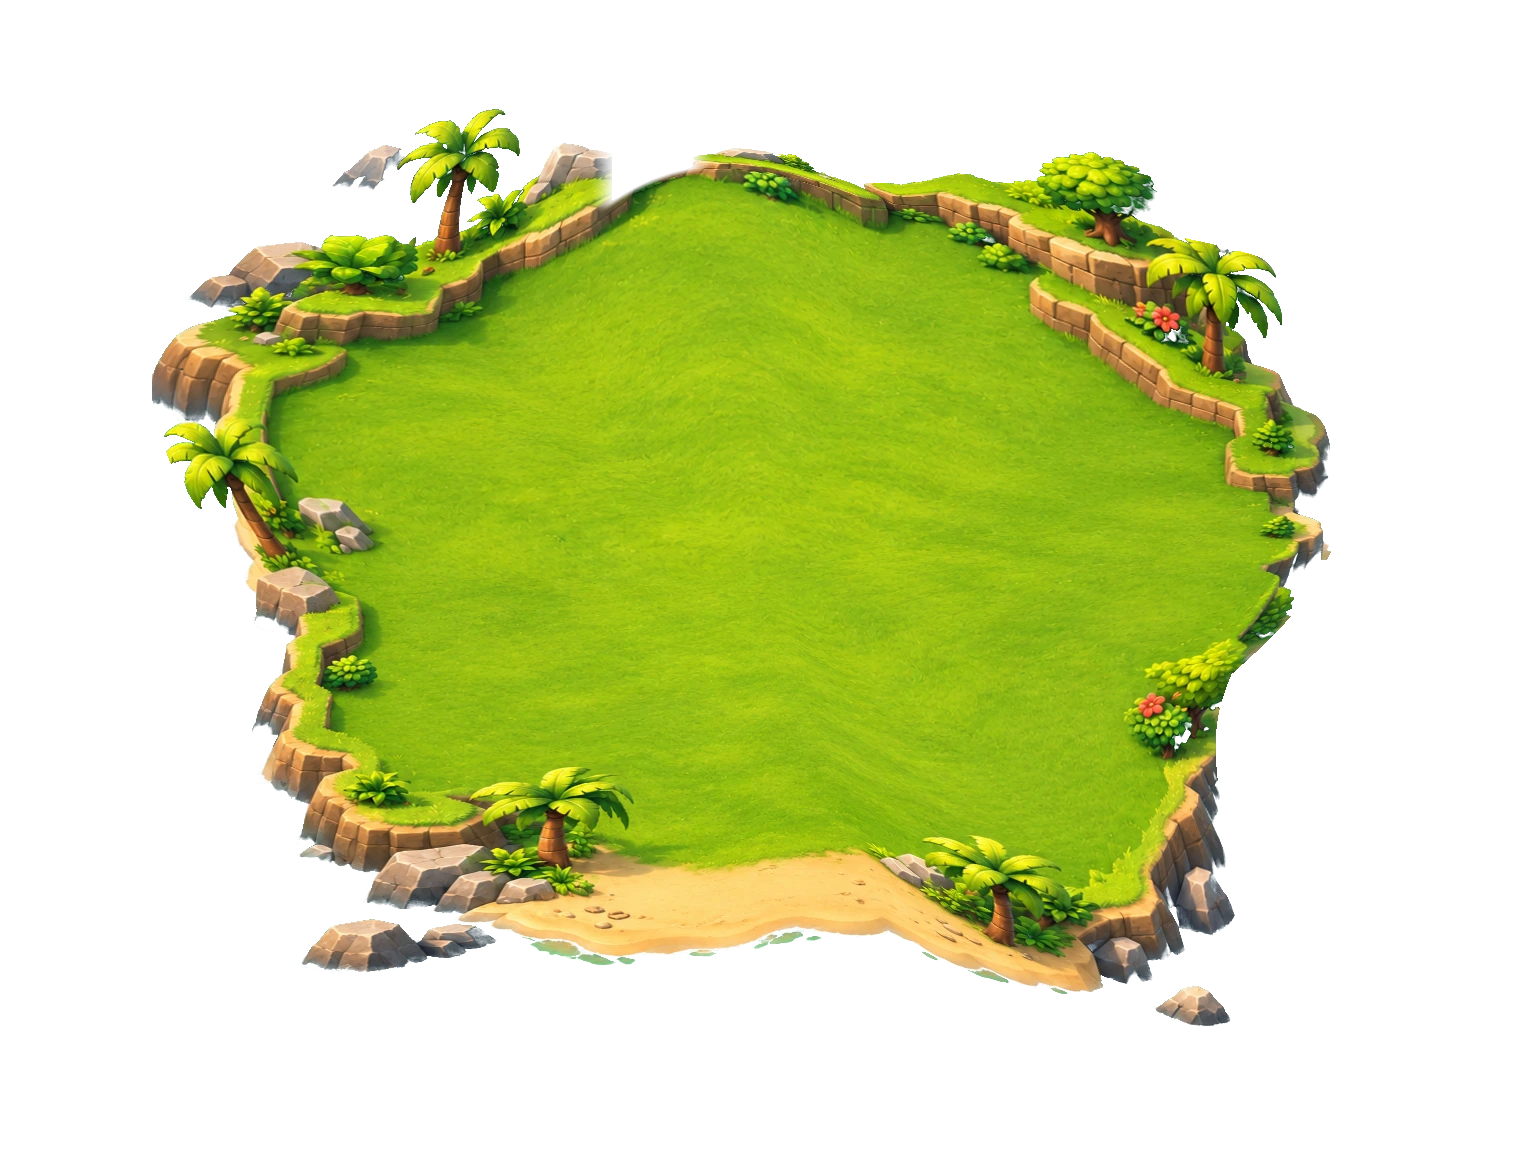
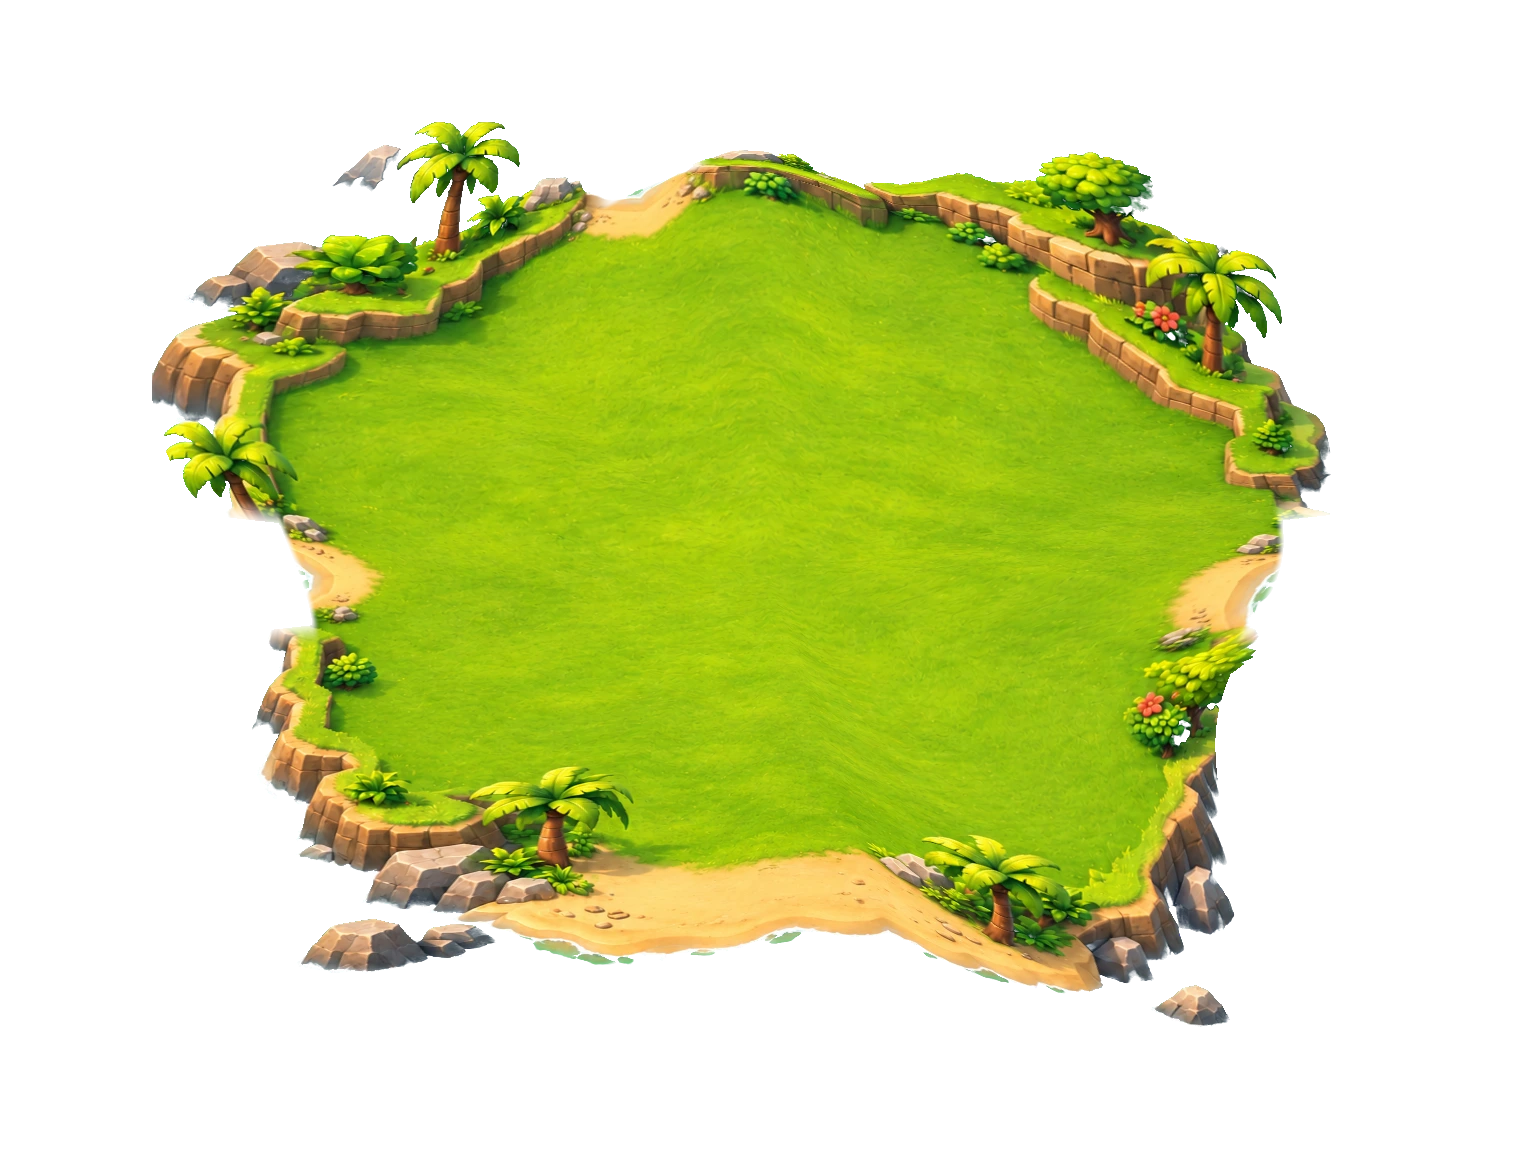
Lay out the mockup cottages, southern bell and four sandy approaches

diff --git a/frontend/src/island/world.js b/frontend/src/island/world.js
@@ -13,7 +13,8 @@ import {makeFootprint, makeWallLanes} from './move-preview.js';
 import {makeSelectionBracket} from './selection-bracket.js';
 import {makeDefenseRange} from './defense-range.js';
 import {makeBuildingFeedback, makeWallFeedback} from './wall-feedback.js';
-import {FOOTPRINTS, KEEP_OUT, footprintOf} from './placement.js';
+import {FOOTPRINTS, KEEP_OUT, footprintOf, overlaps, positionsOf} from './placement.js';
+import {HOME_COTTAGES, SOUTH_BELL} from './home-plan.js';
 import {isOpen, spotWave, waveOf} from '../campaign/index.js';
 import {LOCK_WAVES} from '../art/campaign.js';
 import {SLOT_KINDS} from './td-rules.js';
@@ -282,6 +283,27 @@ export function decorateIsland(place, ctx = {}) {
     bell.userData.portraitSize = 2.03;
     staticArt.track(bell, 'island-bell');
   }
+  const cottageArt = layout.zones === islandZones ? drawn('island-house') : null;
+  const cottages = cottageArt ? HOME_COTTAGES.map(site => {
+    const mesh = sprite(root, cottageArt, site.x, site.z, site.id);
+    mesh.userData.portraitSize = 1.83;
+    mesh.raycast = () => {};
+    staticArt.track(mesh, 'island-house');
+    return {site, mesh};
+  }) : [];
+  let bellPosition = BELL;
+  function updateScenery(spots) {
+    if (!bell || layout.zones !== islandZones) return;
+    const occupied = Object.entries(positionsOf(spots)).map(([id, point]) => {
+      const size = footprintOf(id);
+      return {...point, w: size, d: size};
+    });
+    const free = footprint => !occupied.some(plot => overlaps(plot, footprint));
+    // Old saves may already use this piece of ground. Keep their accepted placement and a usable bell.
+    bellPosition = free({...SOUTH_BELL, w: 2, d: 2}) ? SOUTH_BELL : BELL;
+    moveSprite(bell, bellPosition.x, bellPosition.z);
+    for (const {site, mesh} of cottages) mesh.visible = free(site);
+  }
   // The campaign's buildings (home island only): one mesh per frame they can show, the right one visible.
   const campaignMeshes = new Map(); // building id -> {frame name -> mesh}
   const campaignTextures = new Map();
@@ -353,7 +375,9 @@ export function decorateIsland(place, ctx = {}) {
       installed.push(collider);
     }
     place.colliders.splice(0, place.colliders.length, ...baseColliders,
-      ...fixtures.map(({id, x, z, w: width, d: depth}) => ({x, z, width, depth, islandBuilding: true, spotId: id})), ...installed);
+      ...fixtures.map(({id, x, z, w: width, d: depth}) => ({x, z, width, depth, islandBuilding: true, spotId: id})),
+      ...cottages.filter(({mesh}) => mesh.visible).map(({site: {id, x, z, w: width, d: depth}}) => ({x, z, width, depth, islandBuilding: true, spotId: id})),
+      ...installed);
     refreshTowerColliders();
   }
   let preview = null;
@@ -440,7 +464,7 @@ export function decorateIsland(place, ctx = {}) {
     const places = hidden || !crew ? [] : crewPlaces(spots.map(item => {
       const spot = SPOTS.find(entry => entry.id === item.id), where = spot ? whereOf(spot) : null;
       return where ? {...item, x: where.x, z: where.z} : null;
-    }).filter(Boolean), crew, {bell: layout.bell === false ? null : BELL});
+    }).filter(Boolean), crew, {bell: bell ? bellPosition : null});
     const key = places.map(item => `${item.kind}@${item.x},${item.z}`).join('|');
     if (shown.get('crew')?.key === key) return;
     clear('crew');
@@ -453,6 +477,7 @@ export function decorateIsland(place, ctx = {}) {
     if (disposed) return;
     if (battle || feedbackScope !== state.feedbackScope) clearPurchaseFeedback();
     state = {spots, visitor, battle, unlocks, crew, campaign, arsenal: arsenal === true, feedbackScope};
+    updateScenery(spots);
     place.setMooringBattle?.(battle);
     if (battle || visitor) {
       defenseRange?.show(null);
@@ -483,7 +508,7 @@ export function decorateIsland(place, ctx = {}) {
       const frame = known ? campaignArt(CAMPAIGN_BUILDINGS.find(item => item.id === id), campaign) : null;
       for (const [name, mesh] of Object.entries(meshes)) mesh.visible = name === frame;
     }
-    const standing = [];
+    const standing = cottages.filter(({mesh}) => mesh.visible).map(({site: {x, z}}) => ({slot: 'house', x, z}));
     for (const spot of SPOTS) {
       const answer = spots.find(item => item.id === spot.id), built = answer?.built === true, where = whereOf(spot);
       const marker = markers.get(spot.id);
@@ -520,7 +545,7 @@ export function decorateIsland(place, ctx = {}) {
     // The wave's renderer draws the crew during a battle; outside one they stand by their posts.
     if (art) showCrew(spots, crew, battle);
     if (layout.zones === islandZones) {
-      place.zones = islandZones({visitor, spots, arsenal: state.arsenal});
+      place.zones = islandZones({visitor, spots, arsenal: state.arsenal, bell: bellPosition});
     } else place.zones = [...baseZones, ...(known ? layout.zones() : [])];
     applyColliders(spots, known, campaign);
   }
@@ -609,7 +634,7 @@ export function decorateIsland(place, ctx = {}) {
     if (front) return front;
     const candidates = [...SPOTS.filter(spot => !isExtraSpot(spot.id) || state.spots.some(item => item.id === spot.id))
         .map(spot => ({id: spot.id, ...whereOf(spot), w: 2.4, h: spot.kind === 'watchtower' ? 5 : 3})),
-      ...(bell ? [{id: BELL.id, x: BELL.x, z: BELL.z, w: 1.6, h: 3.4}] : []),
+      ...(bell ? [{id: BELL.id, ...bellPosition, w: 1.6, h: 3.4}] : []),
       ...(arsenalMesh?.visible ? [{id: ARSENAL.id, x: ARSENAL.x, z: ARSENAL.z, w: ARSENAL.w / 2, h: ARSENAL.h}] : []),
       ...(campaignMeshes.size ? CAMPAIGN_BUILDINGS.map(item => ({id: item.id, x: item.x, z: item.z, w: item.w, h: item.h})) : []),
       ...(state.visitor || layout.cabin === false ? [] : [{id: CABIN.id, x: CABIN.x, z: CABIN.z, w: 3, h: 6}])];
@@ -656,6 +681,7 @@ export function decorateIsland(place, ctx = {}) {
   let ringing = 0;
   return {
     runArtTask: (key, operation) => tasks.run(key, operation),
+    get bellPosition() { return bell ? {...bellPosition} : null; },
     apply, pickAt, retryArt: () => Promise.all([retryArt(), staticArt.retry(), retryWallArt(), retryProgressArt(), ctx.retryAdditionalArt?.()]),
     canJoinWall(spot) {
       const row = recoveryState?.structures.find(item => item.spot === spot.id);

diff --git a/frontend/tests/island/static-village-art.test.js b/frontend/tests/island/static-village-art.test.js
@@ -9,6 +9,7 @@ import {createArtworkTasks, createStaticVillageArt} from '../../src/island/stati
 import {createVillageArtNotice} from '../../src/ui/village-art-notice.js';
 import {campaignOf} from '../../src/campaign/index.js';
 import {BELL, ARSENAL} from '../../src/island/spots.js';
+import {HOME_COTTAGES, SOUTH_BELL} from '../../src/island/home-plan.js';
 const flush = () => new Promise(setImmediate);
 const material = () => new THREE.MeshBasicMaterial({map: new THREE.Texture()});
 const deferred = () => { let resolve; const promise = new Promise(done => { resolve = done; }); return {promise, resolve}; };
@@ -24,7 +25,7 @@ it('prepares static bell/tech art at the same ground foot and keeps authoritativ
   expect(requests.some(row => row.ids.includes(ARSENAL.art))).toBe(false); expect(drawing.root.getObjectByName('island-arsenal')).toBeUndefined();
   requests.find(row => row.ids.length === 1 && row.ids[0] === 'island-bell').resolve({'island-bell': bellMap});
   requests.find(row => row.ids.length === 1 && row.ids[0] === 'island-techhub').resolve({'island-techhub': techMap}); await flush();
-  expect(bell.material).toBe(bellMap); expect(bell.position.equals(original)).toBe(true); expect(bell.userData.ground).toEqual({x: BELL.x, z: BELL.z});
+  expect(bell.material).toBe(bellMap); expect(bell.position.equals(original)).toBe(true); expect(bell.userData.ground).toEqual(SOUTH_BELL);
   bell.geometry.computeBoundingBox(); expect(bell.geometry.parameters).toMatchObject({width: 3.5, height: 4.5});
   expect(bell.geometry.boundingBox.min.y).toBe(-.5); expect(bell.geometry.boundingBox.max.y).toBe(4); expect(tech.material).toBe(techMap); expect(tech.visible).toBe(true);
   drawing.ring(); drawing.update(.1); expect(bell.rotation.z).toBe(0);
@@ -33,6 +34,31 @@ it('prepares static bell/tech art at the same ground foot and keeps authoritativ
   expect(service.visible).toBe(true); drawing.apply(state(false)); wait.resolve({[ARSENAL.art]: arsenalMap}); await flush();
   expect(service.visible).toBe(false); expect(service.material).toBe(arsenalMap); drawing.apply(state(true)); expect(service.visible).toBe(true);
   expect(drawing.root.children.filter(mesh => mesh.name === 'island-arsenal')).toHaveLength(1); expect(load.mock.calls.filter(([ids]) => ids.includes(ARSENAL.art))).toHaveLength(1); drawing.dispose();
+});
+
+it('fits the decorative cottages and live bell around accepted persistent placements', async () => {
+  const load = async ids => Object.fromEntries(ids.map(id => [id, material()]));
+  const {place, drawing} = start(load);
+  const [west, east] = HOME_COTTAGES;
+  const hasCottage = site => drawing.root.getObjectByName(site.id).visible;
+  const blocked = site => place.colliders.some(item => item.spotId === site.id);
+  const bellZone = () => place.zones.find(zone => zone.id === BELL.id);
+  expect(drawing.bellPosition).toEqual(SOUTH_BELL);
+  expect(bellZone()).toMatchObject({x: SOUTH_BELL.x, z: SOUTH_BELL.z - .8});
+  expect([west,east].every(site => hasCottage(site) && blocked(site))).toBe(true);
+
+  const placed = [
+    {id: 'cannon_1', kind: 'cannon', built: true, level: 1, x: SOUTH_BELL.x, z: SOUTH_BELL.z},
+    {id: 'cannon_2', kind: 'cannon', built: true, level: 1, x: west.x, z: west.z},
+  ];
+  drawing.apply({spots: placed});
+  await flush();
+  expect(drawing.bellPosition).toEqual(BELL);
+  expect(bellZone()).toMatchObject({x: BELL.x, z: BELL.z + .8});
+  expect(hasCottage(west)).toBe(false); expect(blocked(west)).toBe(false);
+  expect(hasCottage(east)).toBe(true); expect(blocked(east)).toBe(true);
+  expect(place.colliders.find(item => item.spotId === 'cannon_1')).toMatchObject(SOUTH_BELL);
+  drawing.dispose();
 });
 
 it('reports main artwork failure, coalesces actual retries and clears the failure only after success', async () => {

diff --git a/frontend/src/art/ground.js b/frontend/src/art/ground.js
@@ -8,6 +8,7 @@ import {LEGACY_DEPTH} from '../world/projection.js';
 import {canvas, ellipse, line, linear, poly, stroke} from './paint.js';
 import {cliffProfile, paintCliffFaces, paintGrassRim} from './coast-cliffs.js';
 import {meadowScale, paintMaterial, pathMaterialMask} from './village/terrain-materials.js';
+import {HOME_COTTAGES, SOUTH_BELL} from '../island/home-plan.js';
 
 const SIZE = {width: 64, height: 48};
 // Paths of each island (logical x/z, a polyline each) and small clearings [x, z, radius].
@@ -25,6 +26,21 @@ const PATHS = {
     clearings: [[0, -14, 2.33], [-8, 6.6, 2.65], [8.5, 12.4, 1.57], [7, -6, 1.53], [-8, -6, 1.53],
       [0, 2, 2.28], [8.5, -12.5, 2.02], [-5.5, -11.5, 1.89], [12.6, 7.5, 1.75]],
   },
+};
+const [westCottage, eastCottage] = HOME_COTTAGES;
+const MOCKUP_PATHS = {
+  lines: [
+    [[0, -12.2], [0, 7.4], [-.1, 12.3], [SOUTH_BELL.x, SOUTH_BELL.z], [-1.8, 19.3], [1.1, 19.3]],
+    [[westCottage.x, westCottage.z + .7], [westCottage.x, -12.2], [eastCottage.x, -12.2], [eastCottage.x, eastCottage.z + .7]],
+    [[-5.5, -11.5], [-4.7, -9.4], [0, -8.1], [6.5, -8.1], [8.5, -12.5]],
+    [[0, 4.9], [8.1, 4.9], [14, 4], [14, 3]],
+    [[-8, 6.6], [-5.3, 7.4], [0, 7.4], [7.7, 8.1], [12.6, 7.5]],
+    [[-5.5, 11], [-5.5, 13.1], [2.5, 13.1], [2.5, 12.5]],
+  ],
+  widths: [1.42, 1.01, 1.07, 1, 1.15, 1],
+  clearings: [[westCottage.x, westCottage.z, 1.38], [eastCottage.x, eastCottage.z, 1.38], [0, 2, 2.28],
+    [-8, 6.6, 2.65], [SOUTH_BELL.x, SOUTH_BELL.z, 1.48], [2.5, 12.5, 1.42], [-5.5, 11, 1.46],
+    [14, 3, 1.56], [8.5, -12.5, 2.02], [-5.5, -11.5, 1.89], [12.6, 7.5, 1.75]],
 };
 const seeded = seed => () => { seed = (seed * 16807) % 2147483647; return (seed - 1) / 2147483646; };
 
@@ -80,8 +96,8 @@ function paintPavers(c, paths, materials, reference) {
 export const hasGround = id => Object.hasOwn(PATHS, id) && Object.hasOwn(surfaces, id);
 
 /** Paints the ground of a place at density texels per world unit; returns the canvas. */
-export function paintGround(id, density = 28, materials = null, reference = null) {
-  const s = surfaces[id], paths = PATHS[id];
+export function paintGround(id, density = 28, materials = null, reference = null, referencePlan = false) {
+  const s = surfaces[id], paths = id === 'home_islet' && referencePlan ? MOCKUP_PATHS : PATHS[id];
   const art = canvas(Math.round(SIZE.width * density), Math.round(SIZE.height * density)), c = art.getContext('2d');
   // World x/z to the canvas: x across, the drawn y = -z * 0.72 down from the top edge.
   c.setTransform(density, 0, 0, density, SIZE.width / 2 * density, SIZE.height / 2 * density);

diff --git a/frontend/src/world/places/resources.js b/frontend/src/world/places/resources.js
@@ -10,7 +10,7 @@ const HOME_REFERENCE = {file: 'village/home-reference-terrain.webp', width: 1536
 
 // A place with a painted cartoon ground (src/art/ground.js) gets it instead of its pixel backdrop:
 // 16 to 32 texels per world unit, by the screen's density.
-export async function loadBackdrop(path, { quality = 'high' } = {}) {
+export async function loadBackdrop(path, { quality = 'high', referencePlan = false } = {}) {
   const id = /^places\/([a-z_]+)\.png$/.exec(path)?.[1];
   if (id && hasGround(id) && typeof document !== 'undefined') {
     const density = Math.max(16, Math.min(32, screenDensity(quality) * 8));
@@ -18,7 +18,7 @@ export async function loadBackdrop(path, { quality = 'high' } = {}) {
       const reference = await acquireRasterSheet(HOME_REFERENCE).catch(() => null);
       if (reference) {
         try {
-          const texture = smoothTexture(paintGround(id, density, null, reference.image));
+          const texture = smoothTexture(paintGround(id, density, null, reference.image, referencePlan));
           texture.userData.homeReference = true;
           return texture;
         } finally { reference.release(); }
@@ -26,7 +26,7 @@ export async function loadBackdrop(path, { quality = 'high' } = {}) {
     }
     const lease = await acquireRasterSheet(TERRAIN_SHEET);
     try {
-      return smoothTexture(paintGround(id, density, lease.image));
+      return smoothTexture(paintGround(id, density, lease.image, null, referencePlan));
     } finally { lease.release(); }
   }
   const texture = await loadTexture(`${import.meta.env.BASE_URL}${path}`);

diff --git a/frontend/src/island/spots.js b/frontend/src/island/spots.js
@@ -114,11 +114,11 @@ export function placedSpot(id, spots = []) {
 }
 // The interaction zones of the island, in the shape of registry.js: walk up and press E (or tap Inspect).
 // spots: the answer's spots, so a moved building is reached where it stands now.
-export function islandZones({visitor = false, spots = [], arsenal = false} = {}) {
+export function islandZones({visitor = false, spots = [], arsenal = false, bell = BELL} = {}) {
   const zone = (id, name, x, z, radius) => ({id, name, x, z, y: ZONE_Y, radius});
   return [
     ...offeredSpots(spots).map(item => { const [x, z] = landward(placedSpot(item.id, spots)); return zone(item.id, slotName(item.slot), x, z, SPOT_RADIUS); }),
-    zone(BELL.id, 'Harbor bell', BELL.x, BELL.z + .8, ROUND_RADIUS),
+    zone(BELL.id, 'Harbor bell', bell.x, bell.z + (bell === BELL ? .8 : -.8), ROUND_RADIUS),
     ...CAMPAIGN_BUILDINGS.map(item => { const [x, z] = landward(item, 1.6); return zone(item.id, item.name, x, z + .6, BIG_REACH); }),
     ...(visitor ? [] : [zone(CABIN.id, 'Your cabin', CABIN.x + 2.5, CABIN.z + 1.2, ROUND_RADIUS)]),
     ...(arsenal ? [zone(ARSENAL.id, ARSENAL.name, ...landward(ARSENAL, 1.6), BIG_REACH)].map(item => ({...item, z: item.z + .6})) : []),

diff --git a/frontend/src/island/index.js b/frontend/src/island/index.js
@@ -347,7 +347,7 @@ export function createIsland({container, emit, on, mode = 'live', getTransport =
     },
     // Where the floating prompt hangs: the spot's world point and how far above it the building is drawn.
     anchor(zone) {
-      const thing = placedSpot(zone, target()?.spots) ?? ppSpotById(zone) ?? (zone === BELL.id ? BELL : zone === CABIN.id ? CABIN : zone === ARSENAL.id ? ARSENAL : campaignBuilding(zone));
+      const thing = placedSpot(zone, target()?.spots) ?? ppSpotById(zone) ?? (zone === BELL.id ? isl.world?.bellPosition ?? BELL : zone === CABIN.id ? CABIN : zone === ARSENAL.id ? ARSENAL : campaignBuilding(zone));
       if (!thing) return null;
       return {x: thing.x, z: thing.z, lift: thing.kind === 'watchtower' ? 4.6 : thing.h ? Math.min(4.6, thing.h * .7) : 2.6};
     },

diff --git a/frontend/tests/art/terrain-backdrop-lifetime.test.js b/frontend/tests/art/terrain-backdrop-lifetime.test.js
@@ -30,7 +30,7 @@ describe('temporary terrain decode ownership', () => {
   it('keeps the authored fallback terrain available when the reference plate cannot decode', async () => {
     state.acquire.mockRejectedValueOnce(new Error('reference unavailable'));
     expect(await loadBackdrop('places/home_islet.png')).toEqual({id: 'owned texture', userData: {}});
-    expect(state.paint).toHaveBeenCalledWith('home_islet', 16, {id: 'decoded terrain'});
+    expect(state.paint).toHaveBeenCalledWith('home_islet', 16, {id: 'decoded terrain'}, null, false);
     expect(state.release).toHaveBeenCalledTimes(1);
   });
   it('releases after a painter or texture failure and never invents a successful backdrop', async () => {

diff --git a/frontend/src/world/places/settlement.js b/frontend/src/world/places/settlement.js
@@ -46,7 +46,7 @@ export async function createSettlement(ctx) {
   const cleanups = [], dispose = createLifetime(group, art, cleanups);
   let mooringStage = null;
   try {
-    const ground = backdrop(group, await (ctx.loadBackdrop ?? loadBackdrop)(`places/${id}.png`));
+    const ground = backdrop(group, await (ctx.loadBackdrop ?? loadBackdrop)(`places/${id}.png`, {referencePlan: id === 'home_islet' && !!ctx.island}));
     const homeReference = ground.material.map.userData?.homeReference;
     if (id === 'home_islet') {
       if (!homeReference) {

diff --git a/frontend/src/island/home-plan.js b/frontend/src/island/home-plan.js
@@ -1,0 +1,6 @@
+// Decorative anchors on the Home map. Paid houses and defenses keep their own build slots.
+export const SOUTH_BELL = Object.freeze({x: -3, z: 16.5});
+export const HOME_COTTAGES = Object.freeze([
+  Object.freeze({id: 'home-cottage-west', x: -5.25, z: -15.25, w: 2.5, d: 2.5}),
+  Object.freeze({id: 'home-cottage-east', x: 4.25, z: -15.25, w: 2.5, d: 2.5}),
+]);
